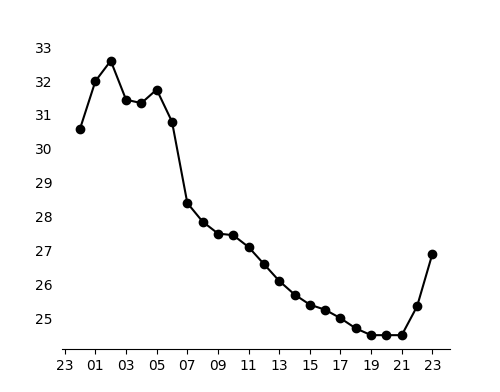
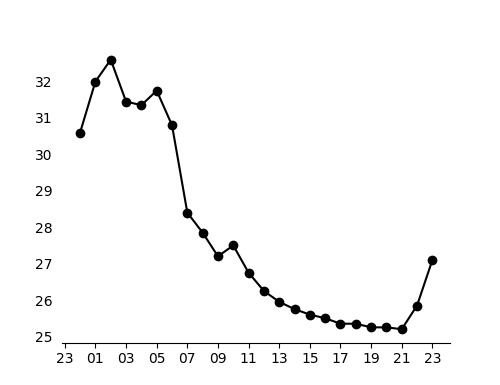
weather image pre

diff --git a/lib/draw_weather.py b/lib/draw_weather.py
@@ -2,21 +2,25 @@ import matplotlib.pyplot as plt
 import matplotlib.dates as mdates
 from draw import Draw
 import requestAPI
+import xbm2img
+from PIL import ImageOps
+from datetime import datetime
 
 class DrawWeather():
     def __init__(self):
         self.draw = Draw()
         self.weather_data = requestAPI.get_weather()
+        self.now = datetime.now()
 
     def generate(self):
-        self.draw_glaph()
+        self.draw_glaph_field()
         self.draw.line(500, 0, 500, 480, 3)
         self.draw.line(0, 88, 500, 88, 3)
         return self.draw.to_bytes()
     
     def generate_glaph_image(self):
         pixel_width = 500
-        pixel_height = 392
+        pixel_height = 385
         dpi = 100
         figsize_width = pixel_width / dpi
         figsize_height = pixel_height / dpi
@@ -48,15 +52,21 @@ class DrawWeather():
 
         return path1, path2
 
-    def draw_glaph(self):
+    def draw_glaph_field(self):
         path1, path2 = self.generate_glaph_image()
         # path = "img/pose_galpeace_schoolgirl.png"
-        self.draw.img(path1, -20, 100, 1, self.draw.BLACK)
-        self.draw.img(path2, -20, 100, 1, self.draw.RED)
+        self.draw.img_path(path1, -20, 107, 1, self.draw.BLACK)
+        self.draw.img_path(path2, -20, 107, 1, self.draw.RED)
+        x = 50
+        for i in range(4):
+            self.draw.img_pil(ImageOps.invert(xbm2img.xbm2img("img/32/sun.xbm")), x, 90, 2)
+            x += 108
+
         return self.draw.to_bytes()
 
 
 if __name__ == "__main__":
     w = DrawWeather()
+    print(w.weather_data["weather_code"])
     w.generate()
     w.draw._save("img/image.png")

diff --git a/lib/xbm2img.py b/lib/xbm2img.py
@@ -1,0 +1,28 @@
+import re
+from PIL import Image
+import numpy as np
+
+def xbm2img(file_path):
+    with open(file_path, 'r') as f:
+        content = f.read()
+
+    width = int(re.search(r'#define\s+\w+_width\s+(\d+)', content).group(1))
+    height = int(re.search(r'#define\s+\w+_height\s+(\d+)', content).group(1))
+    bits_str = re.search(r'\{\s*(.*?)\s*\}', content, re.DOTALL).group(1)
+    hex_values = [int(v.strip(), 16) for v in bits_str.split(',') if v.strip()]
+
+    bitmap = np.zeros((height, width), dtype=np.uint8)
+    byte_index = 0
+    for y in range(height):
+        for x in range(width):
+            byte = hex_values[byte_index + x // 8]
+            bit_position = x % 8
+            if (byte >> bit_position) & 1:
+                bitmap[y][x] = 255
+        byte_index += (width // 8)
+    
+    return Image.fromarray(bitmap, mode='L')
+
+if __name__ == '__main__':
+    img = read_xbm_as_image("img/16/sun.xbm")
+    img.save("converted_image.png")

diff --git a/lib/draw.py b/lib/draw.py
@@ -66,13 +66,16 @@ class Draw():
     
     def line(self, x1, y1, x2, y2, m=1, color=1):
         self.draw_method[color].line(((x1, y1), (x2, y2)), fill=0, width=m)
-    
-    def img(self, path, x=0, y=0, m=1, color=1):
-        img = Image.open(path)
-        img = img.resize((round(img.width * m), round(img.height * m)))
+
+    def img_pil(self, pil, x=0, y=0, m=1, color=1):
+        img = pil.resize((round(pil.width * m), round(pil.height * m)))
         binimg = img.convert("L")
         binimg.point(lambda x: 0 if x < 200 else x)
         self.image_method[color].paste(binimg, (x, y))
+
+    def img_path(self, path, x=0, y=0, m=1, color=1):
+        img = Image.open(path)
+        self.img_pil(img, x, y, m, color)
 
     def to_bytes(self):
         blackbytes = self.blackimage.tobytes()
